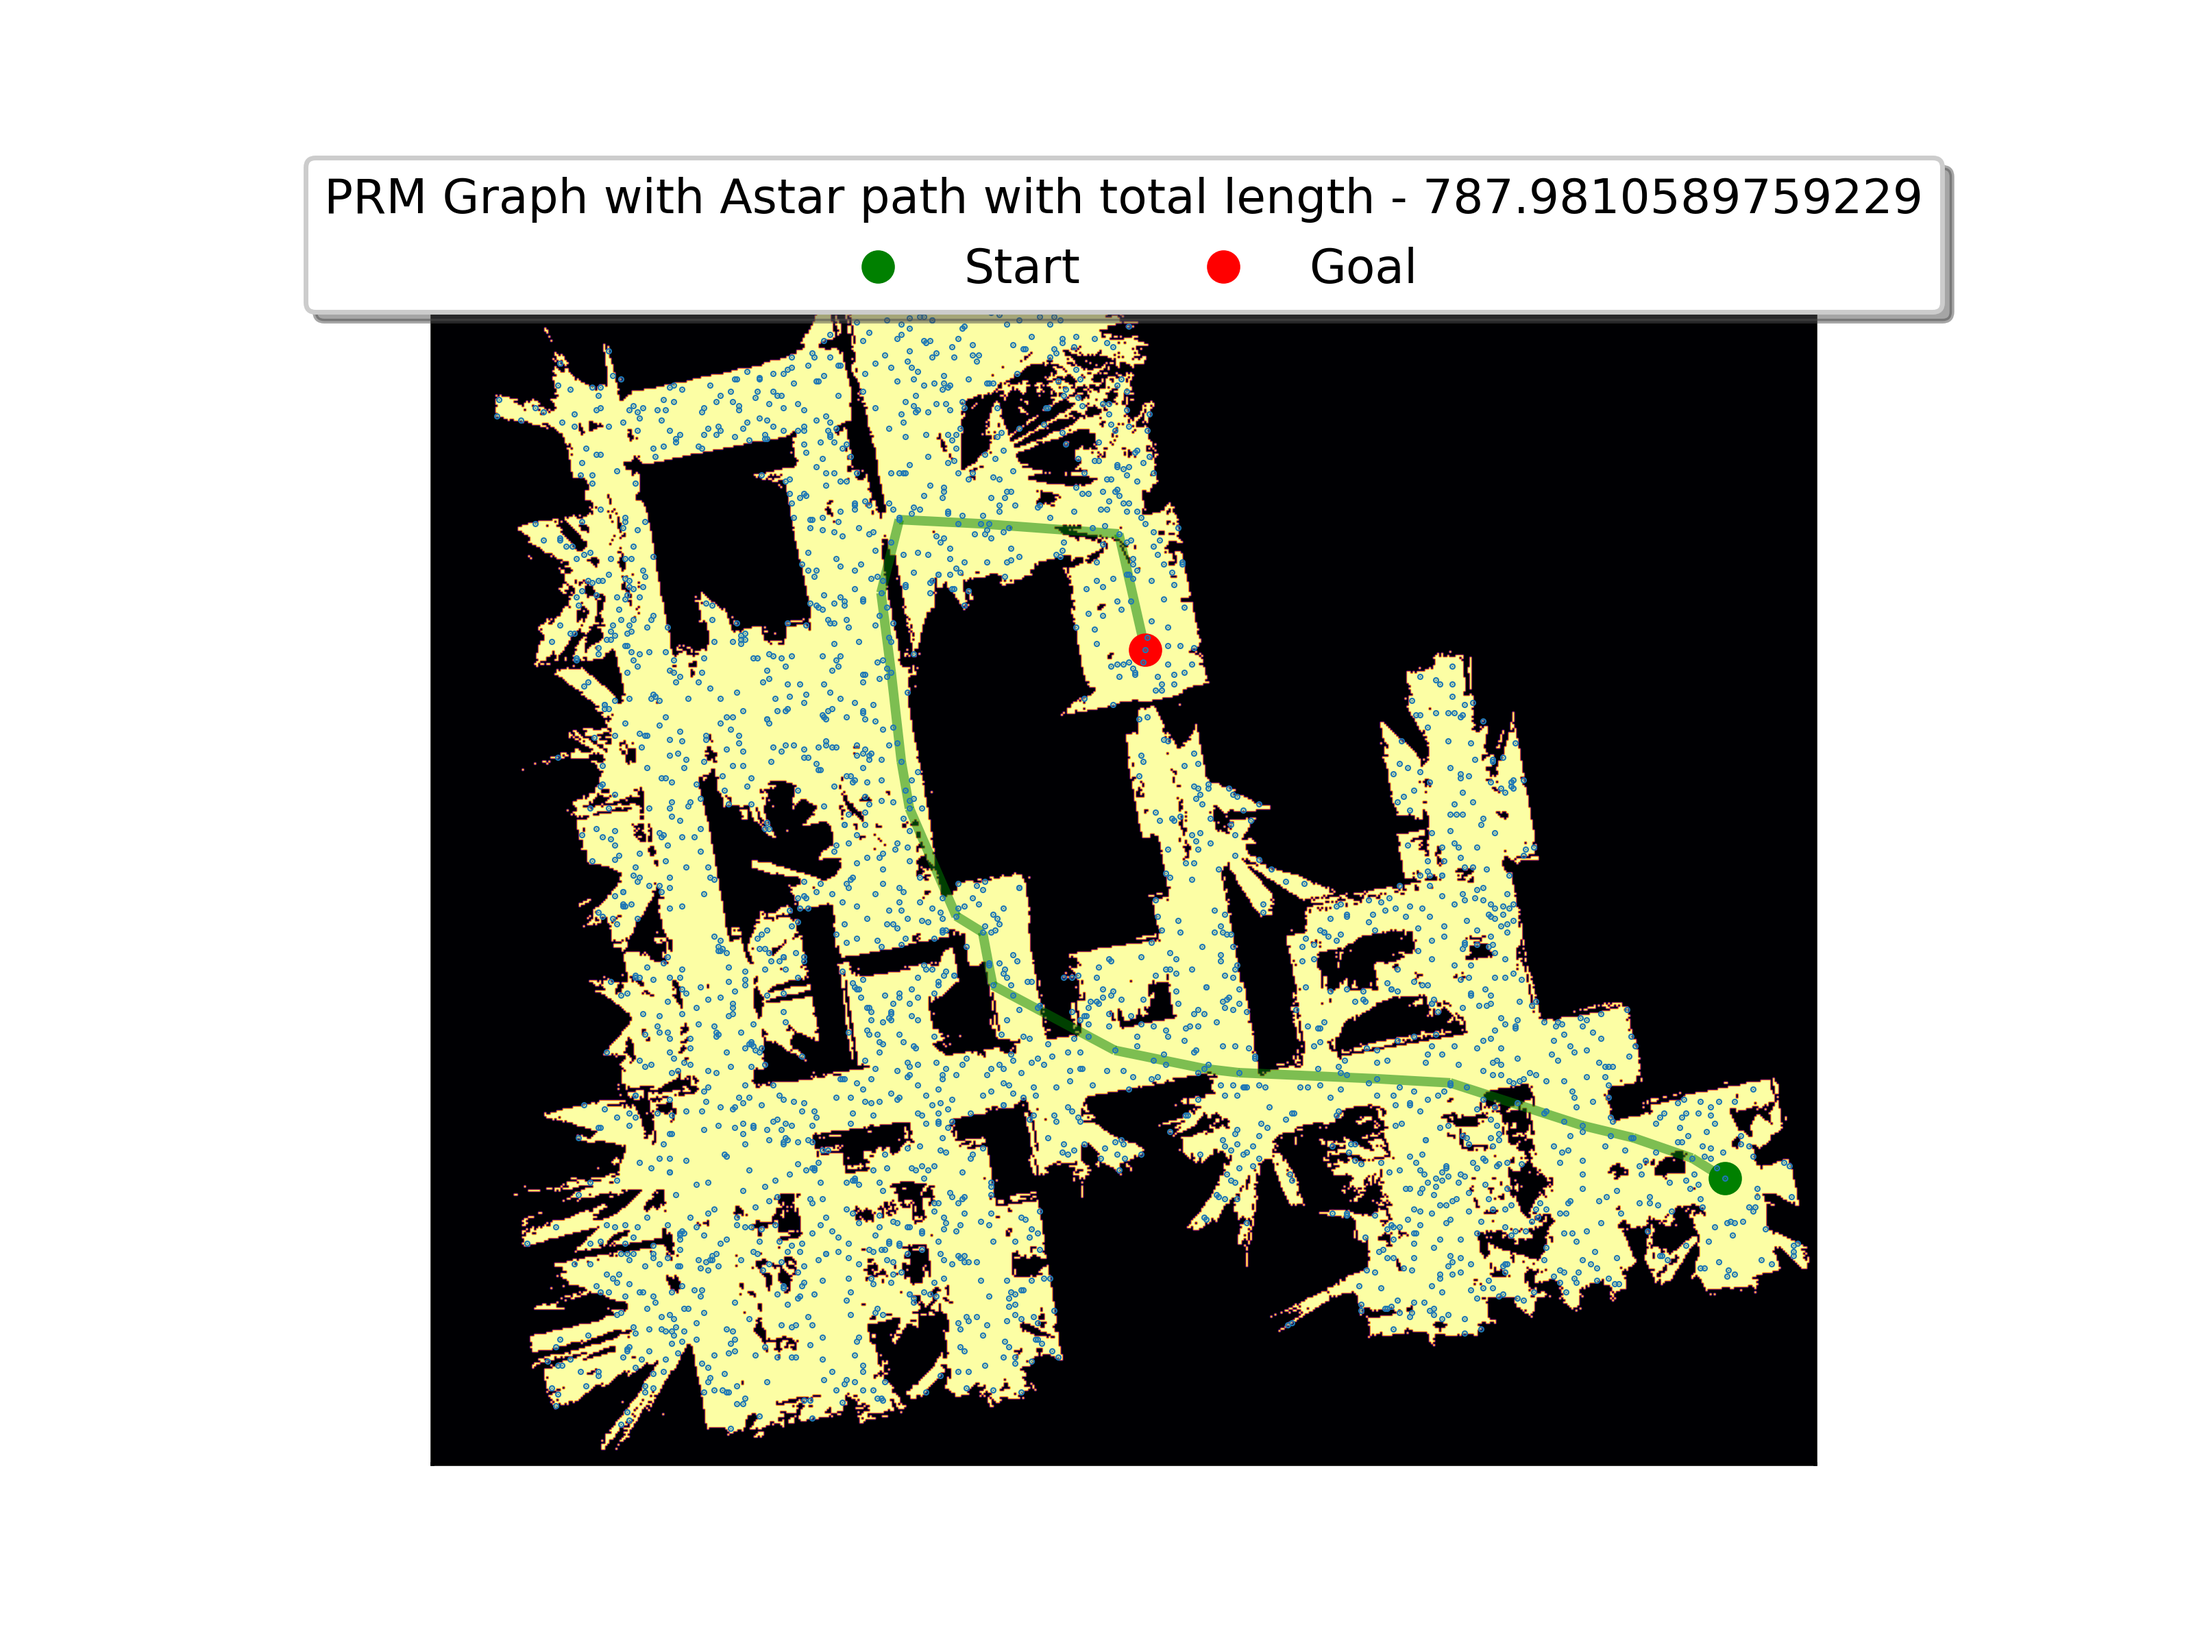
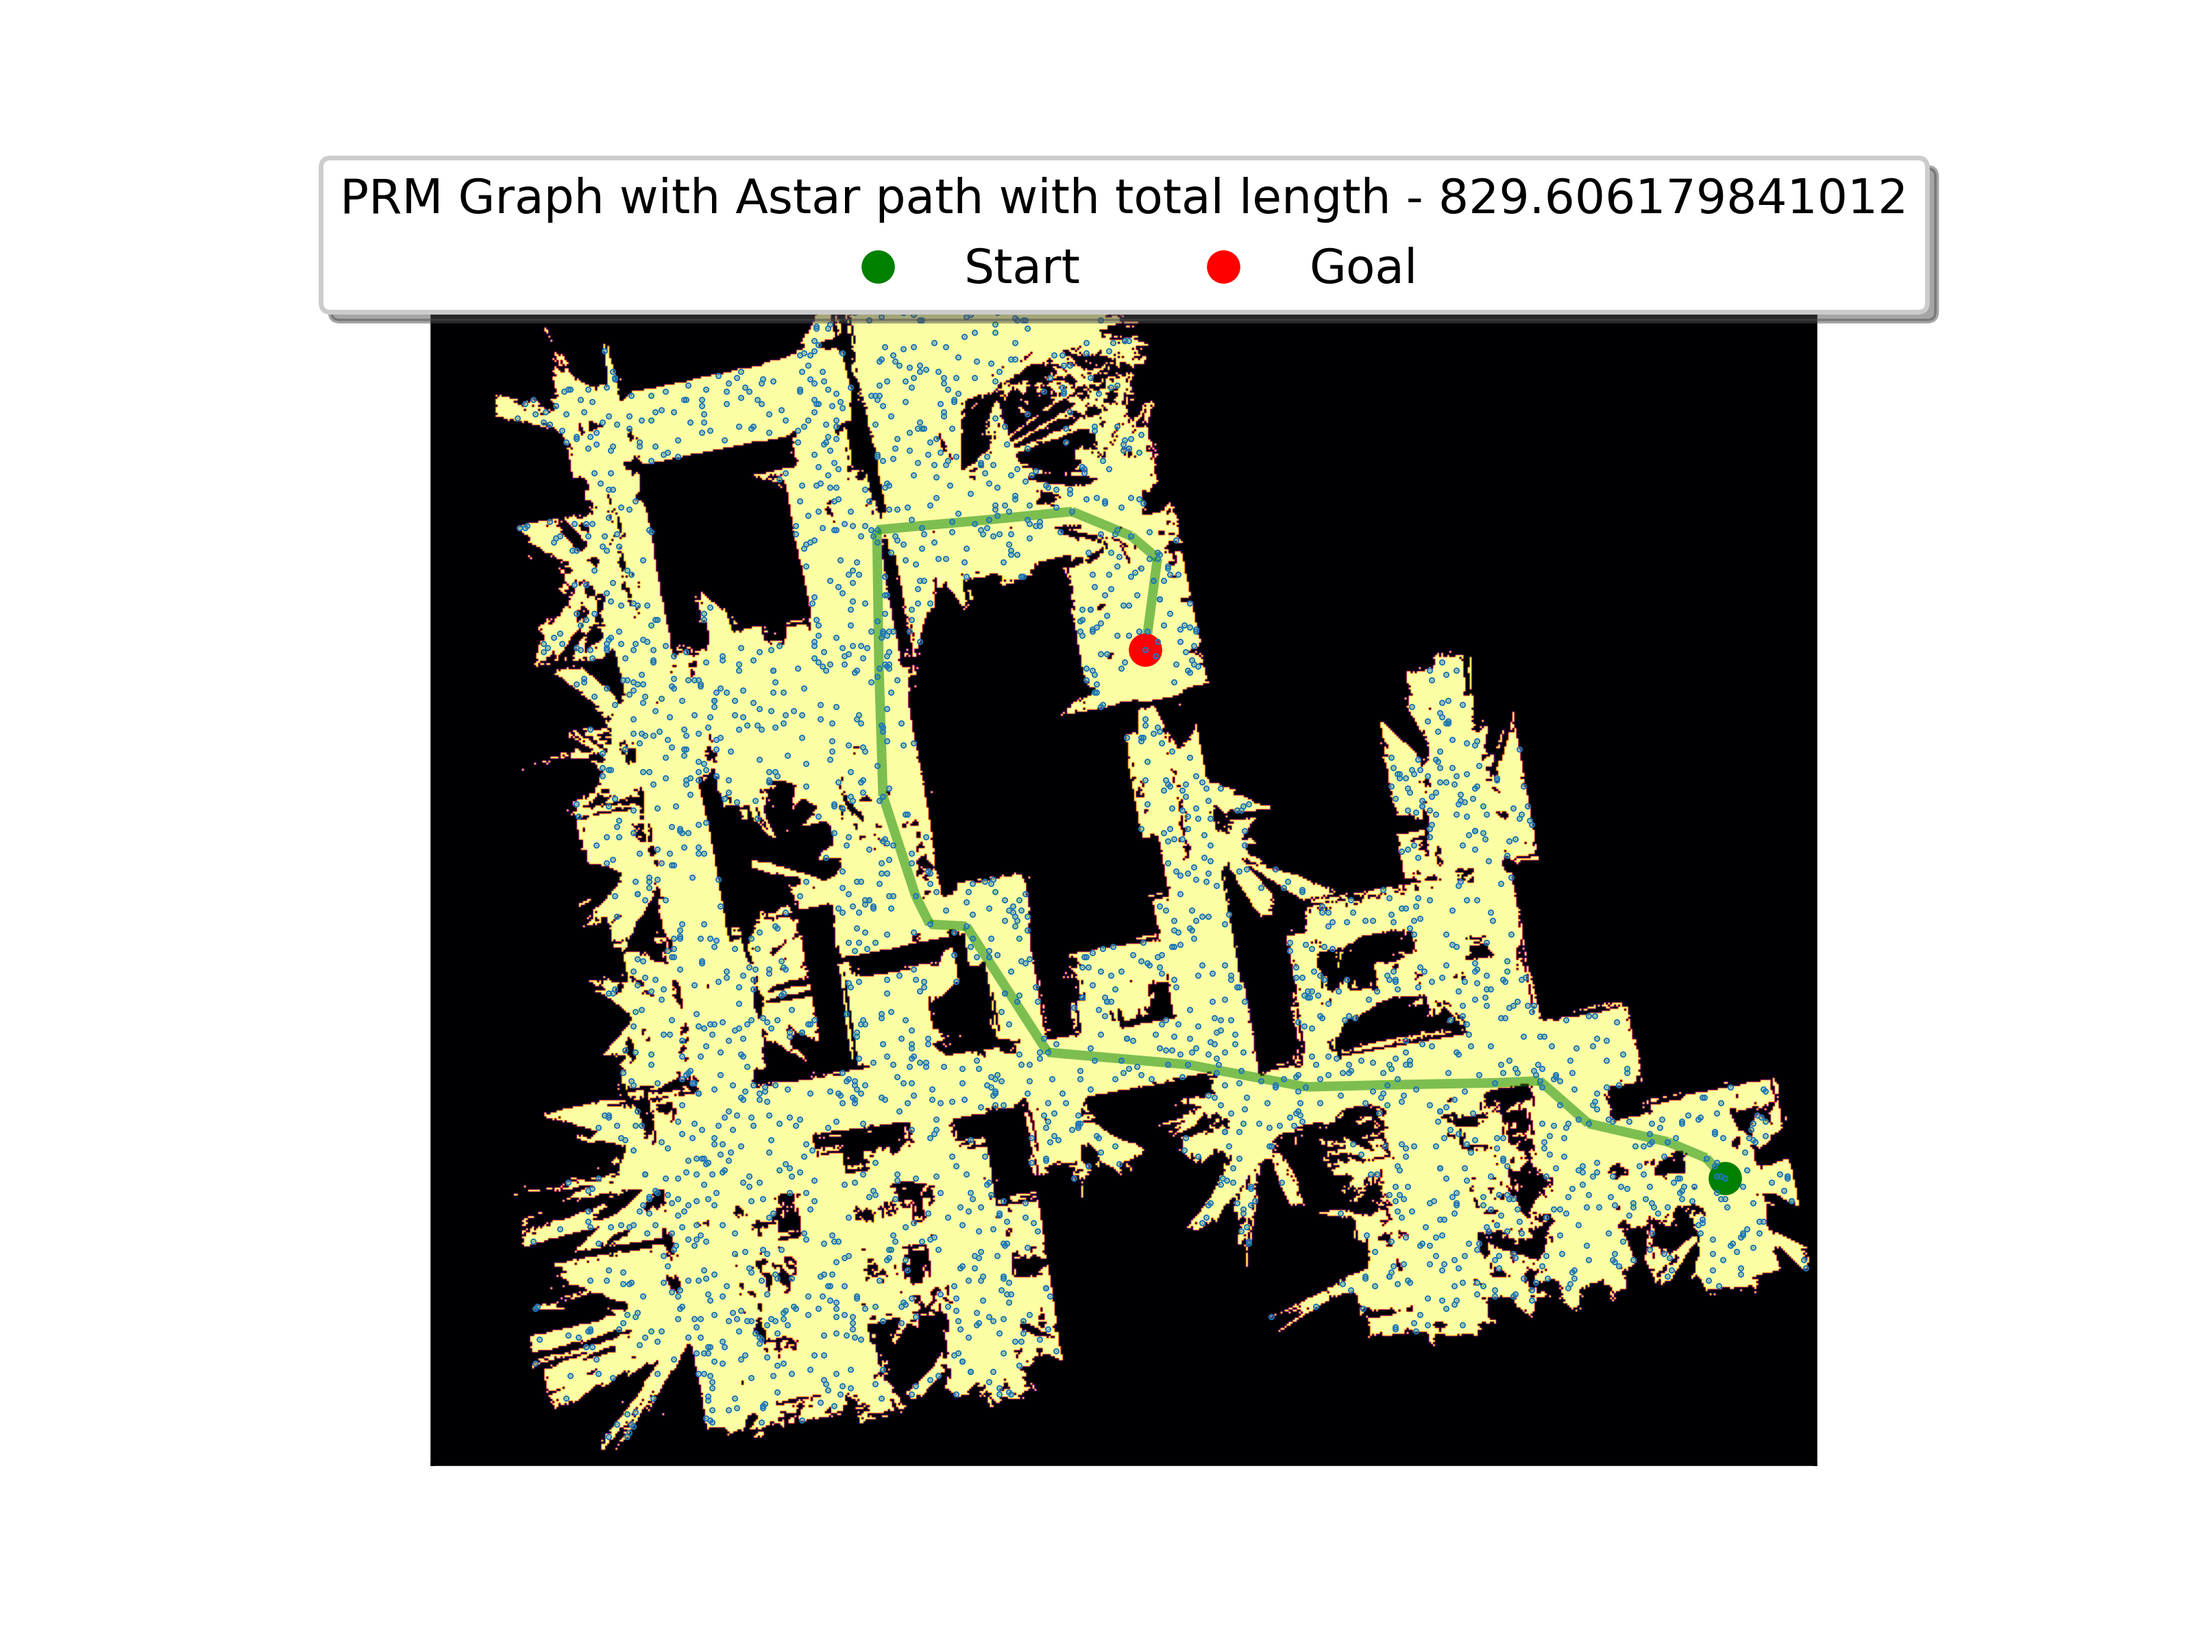
prm update

Changed region(s): [[0.25, 0.1875, 0.8125, 0.875], [0.125, 0.0938, 0.625, 0.1875], [0.6562, 0.0938, 0.9062, 0.1875]]

diff --git a/src/prm.py b/src/prm.py
@@ -6,7 +6,7 @@ import networkx as nx
 from PIL import Image
 import math
 from pyparsing import alphas
-import scipy
+from bresenham import bresenham
 
 neighbor_map = [(-1,-1),(0,-1),(1,-1),(-1,0),(1,0),(-1,1),(0,1),(1,1)]
 
@@ -54,39 +54,6 @@ def rejectionSampler(occupancyGrid):
         else:
             continue
 
-def get_line(x1, y1, x2, y2):
-        points = []
-        issteep = abs(y2-y1) > abs(x2-x1)
-        if issteep:
-            x1, y1 = y1, x1
-            x2, y2 = y2, x2
-        rev = False
-        if x1 > x2:
-            x1, x2 = x2, x1
-            y1, y2 = y2, y1
-            rev = True
-        deltax = x2 - x1
-        deltay = abs(y2-y1)
-        error = int(deltax / 2)
-        y = y1
-        ystep = None
-        if y1 < y2:
-            ystep = 1
-        else:
-            ystep = -1
-        for x in range(x1, x2 + 1):
-            if issteep:
-                points.append((y, x))
-            else:
-                points.append((x, y))
-            error -= deltay
-            if error < 0:
-                y += ystep
-                error += deltax
-        if rev:
-            points.reverse()
-        return points
-
 def Neighbours(graph, v):
     neighbors = []
     for x,y in neighbor_map:
@@ -100,49 +67,11 @@ def Neighbours(graph, v):
 #point2 : tuple of the form (x,y) where x and y are the coordinates of the second point
 #returns : True if there is a line of sight between point1 and point2, False otherwise
 def reachabilityCheck(occupancyGrid, v1, v2):
-    # print("v1: ", v1)
-    # print("v2: ", v2)
-    current = v1
-    while current != v2:
-        neighbors = Neighbours(occupancyGrid, current)
-        current = min(neighbors, key=lambda x: math.dist(x, v2))
-        if occupancyGrid[current] == 0:
-            return False
-        else:
-            continue
-    return True
-
-def bressenhamReachabilityCheck(v1, v2, occupancyGrid):
-    points = []
-    m_new = 2 * (v2[1] - v1[1])
-    slope_error_new = m_new - (v2[1] - v1[1])
-    y = v1[1]
-    for x in range(v1[0], v2[0]+1):
-        points.append((x,y))
-        #print("(", x, ",", y, ")\n")
-        # Add slope to increment angle formed
-        slope_error_new = slope_error_new + m_new
-        # Slope error reached limit, time to
-        # increment y and update slope error.
-        if (slope_error_new >= 0):
-            y = y+1
-            slope_error_new = slope_error_new - 2 * (v2[0] - v1[0])
-
+    points = bresenham(v1[0],v1[1],v2[0],v2[1])
     for indx in points :
         for x,y in neighbor_map :
             search_point = (indx[0]+x,indx[1]+y)
             if occupancyGrid[search_point] == 0:
-                return False
-    return True
-
-def reachablity_check(occupancygrid,v1, v2):
-
-    points = get_line(v1[0],v1[1],v2[0],v2[1])
-
-    for indx in points :
-        for x,y in neighbor_map :
-            search_point = (indx[0]+x,indx[1]+y)
-            if occupancygrid[search_point] == 0:
                 return False
     return True
 class PRM():
@@ -219,15 +148,5 @@ if __name__ == "__main__":
     start = (635,140)
     goal = (350,400)
     path, totalCost = prm.aStartSearch(start, goal)
-    print("PATHHHHH",path)
-    poses = []
-    for i in prm.graph.nodes.data('pos'):
-        poses.append(i[1])
-    if start in poses:
-        print("True")
-    else:
-        print("False")
     SaveFigs(path,prm.graph, totalCost, start, goal)
-    point1 = (120,240)
-    point2 = (240,500)
     plt.show()

diff --git a/src/test.py b/src/test.py
@@ -85,13 +85,63 @@ class A_star_search_driver():
 						self.Q_tracker[nbs]=self.EstCostTo[nbs]
 		return []
 
-searcher = A_star_search_driver([],(635,140),(350,400),N,w,h)
-path = searcher.AStarSearch()
+def DDA(x0, y0, x1, y1):
+ 
+    # find absolute differences
+    dx = abs(x0 - x1)
+    dy = abs(y0 - y1)
+ 
+    # find maximum difference
+    steps = max(dx, dy)
+ 
+    # calculate the increment in x and y
+    xinc = dx/steps
+    yinc = dy/steps
+ 
+    # start with 1st point
+    x = float(x0)
+    y = float(y0)
+ 
+    # make a list for coordinates
+    points = []
+ 
+    for i in range(steps):
+        # append the x,y coordinates in respective list
+        points.append((int(x), int(y)))
+ 
+        # increment the values
+        x = x + xinc
+        y = y + yinc
+ 
+    # plot the line with coordinates list
+    plt.plot(x_coorinates, y_coorinates, marker="o",
+             markersize=1, markerfacecolor="green")
+    plt.show()
+ 
+ 
+# Driver code
+if __name__ == "__main__":
+ 
+    # coordinates of 1st point
+    x0, y0 = 20, 20
+ 
+    # coordinates of 2nd point
+    x1, y1 = 60, 50
+ 
+    # Function call
+    DDA(x0, y0, x1, y1)
 
-occ_map = load_occupancy_map()
-occ_map[np.where(occ_map>0)]=255
-for v in path:
-	occ_map[v[0]][v[1]]=127
+# searcher = A_star_search_driver([],(635,140),(350,400),N,w,h)
+# path = searcher.AStarSearch()
 
-print(occ_map)
-matplotlib.image.imsave('name.png', occ_map)
+# occ_map = load_occupancy_map()
+# occ_map[np.where(occ_map>0)]=255
+# for v in path:
+# 	occ_map[v[0]][v[1]]=127
+
+# print(occ_map)
+# matplotlib.image.imsave('name.png', occ_map)
+
+# dartThrows = np.random.rand(2500, 2,1)
+
+# print(dartThrows)
